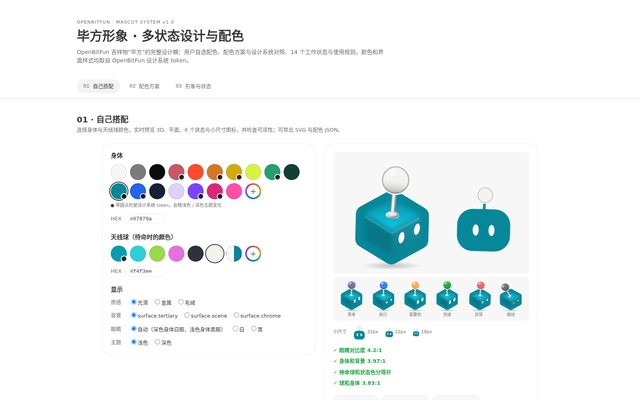
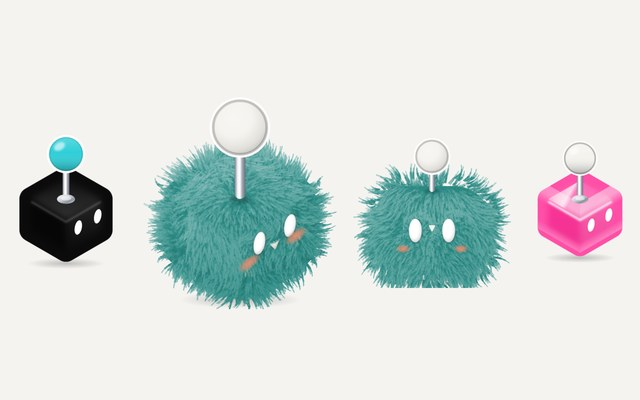
feat(bitfun): sync mascot page, refresh launcher card and thumbnail

diff --git a/design/bitfun-mascot/index.html b/design/bitfun-mascot/index.html
@@ -640,6 +640,7 @@ i.bl{display:inline-block;width:10px;height:10px;border-radius:50%;box-shadow:0 
       { q: [[33, 53.6], [60, 69.2], [60, 93.2], [33, 77.6]], n: 300, d: 1.4, base: .7 },
       { q: [[60, 69.2], [87, 53.6], [87, 77.6], [60, 93.2]], n: 300, d: 1.74, base: .64 }
     ];
+    if (!x.front) {
     // 脸：右侧面两只眼睛之间。脸上的毛短一些、顺着从脸中心向外梳，表情才看得清
     const EYE = [[69.5, 76.2], [84.5, 67.6]], FC = [77, 72];
     const faceK = (px, py) => { const d = Math.min(...EYE.map(e => Math.hypot(px - e[0], py - e[1]))); return Math.max(0, Math.min(1, (d - 3) / 9)); };
@@ -714,6 +715,29 @@ i.bl{display:inline-block;width:10px;height:10px;border-radius:50%;box-shadow:0 
       }
     }
     NOFLOW = false;
+    } else {
+      // 正面毛绒：圆角矩形（与平面视图同形），毛从头顶向四周、向下梳；两眼周围毛短、向外梳
+      const X0 = 26, X1 = 94, Y0 = 46, Y1 = 100, RR = 20, CX = 60, CY = 73;
+      const inside = (px, py) => { const qx = Math.min(Math.max(px, X0 + RR), X1 - RR), qy = Math.min(Math.max(py, Y0 + RR), Y1 - RR); return Math.hypot(px - qx, py - qy) <= RR; };
+      const fl = (px, py) => Math.max(0, Math.min(1, .62 + (.8 - (py - 46) * .006 - (px - 60) * .002 - .62) * .42 + (r() - .5) * .05));
+      const EYF = [[49.9, 73], [70.1, 73]];
+      const fk = (px, py) => { const d = Math.min(...EYF.map(e => Math.hypot((px - e[0]) * 1.4, py - e[1]))); return Math.max(0, Math.min(1, (d - 6) / 10)); };
+      const flowAng = (px, py) => { const a = Math.atan2(py - 34, (px - 60) * 1.3); return a; };
+      const UL = Math.max(L0, .65);
+      const fill = (m, fn) => { const gs = Math.ceil(Math.sqrt(m)); for (let i = 0; i < m; i++) { const px = X0 + ((i % gs) + r()) / gs * (X1 - X0), py = Y0 + (Math.floor(i / gs) + r()) / Math.ceil(m / gs) * (Y1 - Y0); if (inside(px, py)) fn(px, py); } };
+      fill(Math.round(1100 * UL), (px, py) => clump(px, py, flowAng(px, py) + (r() - .5) * .4, 3.5 + r() * 2.8, .7, fl(px, py) - .04, 4, 3));
+      fill(Math.round(1150 * L0), (px, py) => {
+        const k = fk(px, py); let ang = flowAng(px, py) + (r() - .5) * .3;
+        if (k < 1) { const e = EYF[px < 60 ? 0 : 1], oa = Math.atan2(py - e[1], px - e[0]); ang = ang * k + oa * (1 - k); }
+        clump(px, py, ang, (7.5 + r() * 4.5) * (.45 + .55 * k), .6 + r() * .5, fl(px, py) + (1 - k) * .05, grp(), 5);
+      });
+      // 外缘：沿轮廓一圈向外蓬的长毛
+      for (let i = 0, m = Math.round(520 * Math.max(L0, .6)); i < m; i++) {
+        const th = r() * Math.PI * 2, dx = Math.cos(th), dy = Math.sin(th); let t = 0; while (inside(CX + dx * (t + .5), CY + dy * (t + .5)) &amp;&amp; t < 60) t += .5;
+        const off = -3 + r() * 9, px = CX + dx * (t + off), py = CY + dy * (t + off);
+        clump(px, py, Math.atan2(dy * 1.15 + .25, dx) + (r() - .5) * .6, 5 + r() * 5.5, .5 + r() * .3, fl(px, py) - .03, off < 2 ? 4 : grp(), off < 2 ? 3 : 4);
+      }
+    }
     // 输出：每组一层 <g>，各自按不同节奏轻摆；同组内按 根 → 中 → 尖 的顺序叠
     let out = '';
     for (const B of buf.slice(0, 2)) for (let sg = 0; sg < SEG; sg++) for (let g = 0; g <= G; g++) {
@@ -743,6 +767,7 @@ i.bl{display:inline-block;width:10px;height:10px;border-radius:50%;box-shadow:0 
 
   function body(x) {
     const { P, u, plush } = x, sw = plush ? 20 : 18;
+    if (x.front) return `<rect x=&quot;26&quot; y=&quot;46&quot; width=&quot;68&quot; height=&quot;54&quot; rx=&quot;20&quot; fill=&quot;${P.side}&quot;/>${down(x)}`;
     if (x.flat) {
       const e = edgeOf(P.side);
       let f = `<rect x=&quot;26&quot; y=&quot;46&quot; width=&quot;68&quot; height=&quot;54&quot; rx=&quot;20&quot; fill=&quot;${P.side}&quot;${e ? ` stroke=&quot;${e}&quot; stroke-width=&quot;${x.tiny ? 2.4 : 1.4}&quot;` : ''}/>`;
@@ -830,9 +855,9 @@ ${plush ? '' : `<path d=&quot;${LEFT}&quot; fill=&quot;url(#lf${u})&quot; filter
     if (fx.includes('orbit')) over += `<g><circle cx=&quot;60&quot; cy=&quot;29&quot; r=&quot;17&quot; fill=&quot;none&quot; stroke=&quot;${color}&quot; stroke-opacity=&quot;.28&quot; stroke-width=&quot;1&quot; stroke-dasharray=&quot;1.5 3&quot;/><circle cx=&quot;77&quot; cy=&quot;29&quot; r=&quot;2.6&quot; fill=&quot;${color}&quot;><animateTransform attributeName=&quot;transform&quot; type=&quot;rotate&quot; from=&quot;0 60 29&quot; to=&quot;360 60 29&quot; dur=&quot;1.8s&quot; repeatCount=&quot;indefinite&quot;/></circle></g>`;
     if (fx.includes('smoke')) over += `<circle class=&quot;puff&quot; cx=&quot;67&quot; cy=&quot;14&quot; r=&quot;3.2&quot; fill=&quot;#B9BEC7&quot;/><circle class=&quot;puff p2&quot; cx=&quot;71&quot; cy=&quot;12&quot; r=&quot;2.4&quot; fill=&quot;#B9BEC7&quot;/>`;
     const be = edgeOf(color), bs = be ? ` stroke=&quot;${be}&quot; stroke-width=&quot;${x.tiny ? 2 : 1.1}&quot;` : '';
-    const ball = x.tiny ? `<circle cx=&quot;60&quot; cy=&quot;27&quot; r=&quot;12.5&quot; fill=&quot;${color}&quot;${bs}/>` : x.flat ? `<circle cx=&quot;60&quot; cy=&quot;28&quot; r=&quot;9.6&quot; fill=&quot;${color}&quot;${bs}/>` : `<circle cx=&quot;60&quot; cy=&quot;29&quot; r=&quot;11.5&quot; fill=&quot;${color}&quot;${bs}/>${plush ? `<circle cx=&quot;60&quot; cy=&quot;29&quot; r=&quot;11.5&quot; fill=&quot;url(#bm${u})&quot;/>` : `<circle cx=&quot;60&quot; cy=&quot;29&quot; r=&quot;11.5&quot; fill=&quot;url(#bs${u})&quot;/>`}${plush ? '' : `<ellipse cx=&quot;55.6&quot; cy=&quot;23.8&quot; rx=&quot;4&quot; ry=&quot;2.6&quot; transform=&quot;rotate(-30 55.6 23.8)&quot; fill=&quot;#fff&quot; opacity=&quot;.6&quot; filter=&quot;url(#hb${u})&quot;/><circle cx=&quot;60&quot; cy=&quot;29&quot; r=&quot;11.1&quot; fill=&quot;none&quot; stroke=&quot;#000&quot; stroke-opacity=&quot;.1&quot; stroke-width=&quot;.8&quot;/>`}`;
+    const ball = x.tiny ? `<circle cx=&quot;60&quot; cy=&quot;27&quot; r=&quot;12.5&quot; fill=&quot;${color}&quot;${bs}/>` : x.flat ? `<circle cx=&quot;60&quot; cy=&quot;28&quot; r=&quot;9.6&quot; fill=&quot;${color}&quot;${bs}/>${x.front ? `<circle cx=&quot;60&quot; cy=&quot;28&quot; r=&quot;9.6&quot; fill=&quot;url(#bm${u})&quot;/>` : ''}` : `<circle cx=&quot;60&quot; cy=&quot;29&quot; r=&quot;11.5&quot; fill=&quot;${color}&quot;${bs}/>${plush ? `<circle cx=&quot;60&quot; cy=&quot;29&quot; r=&quot;11.5&quot; fill=&quot;url(#bm${u})&quot;/>` : `<circle cx=&quot;60&quot; cy=&quot;29&quot; r=&quot;11.5&quot; fill=&quot;url(#bs${u})&quot;/>`}${plush ? '' : `<ellipse cx=&quot;55.6&quot; cy=&quot;23.8&quot; rx=&quot;4&quot; ry=&quot;2.6&quot; transform=&quot;rotate(-30 55.6 23.8)&quot; fill=&quot;#fff&quot; opacity=&quot;.6&quot; filter=&quot;url(#hb${u})&quot;/><circle cx=&quot;60&quot; cy=&quot;29&quot; r=&quot;11.1&quot; fill=&quot;none&quot; stroke=&quot;#000&quot; stroke-opacity=&quot;.1&quot; stroke-width=&quot;.8&quot;/>`}`;
     return `<g class=&quot;${cls}&quot;>
-      ${x.flat ? `<rect x=&quot;58.3&quot; y=&quot;36&quot; width=&quot;3.4&quot; height=&quot;10.2&quot; fill=&quot;${edgeOf(P.side) || P.side}&quot;/>`
+      ${x.front ? `<ellipse cx=&quot;60&quot; cy=&quot;49&quot; rx=&quot;4.4&quot; ry=&quot;1.8&quot; fill=&quot;#000&quot; opacity=&quot;.2&quot; filter=&quot;url(#hb${u})&quot;/><rect x=&quot;58.2&quot; y=&quot;35&quot; width=&quot;3.6&quot; height=&quot;14.5&quot; rx=&quot;1.8&quot; fill=&quot;url(#cr${u})&quot;/>` : x.flat ? `<rect x=&quot;58.3&quot; y=&quot;36&quot; width=&quot;3.4&quot; height=&quot;10.2&quot; fill=&quot;${edgeOf(P.side) || P.side}&quot;/>`
         : `${plush ? `<ellipse cx=&quot;60&quot; cy=&quot;54.4&quot; rx=&quot;5.2&quot; ry=&quot;2.4&quot; fill=&quot;#000&quot; opacity=&quot;.22&quot; filter=&quot;url(#hb${u})&quot;/><rect x=&quot;57.4&quot; y=&quot;30&quot; width=&quot;5.2&quot; height=&quot;24&quot; rx=&quot;2.6&quot; fill=&quot;url(#cr${u})&quot;/>` : `<rect x=&quot;57.4&quot; y=&quot;30&quot; width=&quot;5.2&quot; height=&quot;23.5&quot; rx=&quot;2.6&quot; fill=&quot;url(#cr${u})&quot;/><ellipse cx=&quot;60&quot; cy=&quot;53.8&quot; rx=&quot;7&quot; ry=&quot;3.6&quot; fill=&quot;url(#cc${u})&quot;/><ellipse cx=&quot;60&quot; cy=&quot;53.1&quot; rx=&quot;4&quot; ry=&quot;1.7&quot; fill=&quot;#fff&quot; opacity=&quot;.55&quot;/>`}`}
       <g transform=&quot;${x.flat ? '' : 'translate(0 -10) translate(60 29) scale(1.14) translate(-60 -29)'}&quot;>
       ${under}
@@ -1025,13 +1050,14 @@ ${plush ? '' : `<path d=&quot;${LEFT}&quot; fill=&quot;url(#lf${u})&quot; filter
     const P = typeof opt.palette === 'object' ? opt.palette : PALETTES[opt.palette || 'obsidian'];
     const x = { P, u: 'b' + (++UID), plush: opt.finish === 'plush', metal: opt.finish === 'metal', cute: opt.face === 'cute', lod: opt.lod || 1, flat: opt.view === 'flat' || !!opt.tiny, tiny: !!opt.tiny, mouthPick: opt.mouth, blushPick: opt.blush === 'none' ? null : opt.blush };
     if (opt.blush === 'none') x.blushPick = '';
-    if (x.flat) { x.plush = false; x.metal = false; } // 平面只有一种：纯平、简化
+    x.front = opt.view === 'front' &amp;&amp; x.plush; if (opt.view === 'front') x.flat = true; // 正面毛绒：平面的正面构图 + 毛绒
+    if (x.flat &amp;&amp; !x.front) { x.plush = false; x.metal = false; } // 平面只有一种：纯平、简化
     const color = statusColor(st.cat, opt.palette);
     const compact = !!opt.compact || !!opt.tiny, ac = !!opt.accent &amp;&amp; !x.tiny;
     const list = parts(id, x, color, compact || ac).filter(Boolean).join('') + (x.plush &amp;&amp; x.furOver ? x.furOver : (x.tiny ? '' : bifangBlush(x))) + (x.mouthPick === 'beak' ? beakOf(x) : x.mouthPick &amp;&amp; x.mouthPick !== 'state' &amp;&amp; x.mouthPick !== 'none' &amp;&amp; !x.tiny ? mouth(x, x.mouthPick, true) : '');
     const wrap = st.wrap === 'hop' &amp;&amp; (compact || ac) ? 'f' : st.wrap;
     const vb = x.tiny ? '20 13 80 90' : ac ? '34 6 122 120' : compact ? '9 1 102 107' : '0 0 160 136';
-    const shadow = x.flat ? '' : false ? `<ellipse cx=&quot;60&quot; cy=&quot;104&quot; rx=&quot;27&quot; ry=&quot;2.6&quot; fill=&quot;#000&quot; opacity=&quot;.07&quot;/>` : `<ellipse cx=&quot;60&quot; cy=&quot;103.5&quot; rx=&quot;30&quot; ry=&quot;4.2&quot; fill=&quot;url(#sh${x.u})&quot;/>`;
+    const shadow = x.flat &amp;&amp; !x.front ? '' : false ? `<ellipse cx=&quot;60&quot; cy=&quot;104&quot; rx=&quot;27&quot; ry=&quot;2.6&quot; fill=&quot;#000&quot; opacity=&quot;.07&quot;/>` : `<ellipse cx=&quot;60&quot; cy=&quot;103.5&quot; rx=&quot;30&quot; ry=&quot;4.2&quot; fill=&quot;url(#sh${x.u})&quot;/>`;
     const inner = compact &amp;&amp; !ac ? `${shadow}<g class=&quot;${wrap}&quot;>${list}</g>` : `<g transform=&quot;translate(20 12)&quot;>${shadow}<g class=&quot;${wrap}&quot;>${list}</g>${ac ? accent(id, color) : ''}</g>`;
     const style = opt.noStyle ? '' : `<style>${STYLE}</style>`;
     return `<svg class=&quot;bf&quot; xmlns=&quot;http://www.w3.org/2000/svg&quot; viewBox=&quot;${vb}&quot; role=&quot;img&quot; aria-label=&quot;毕方 · ${st.name}&quot;>${style}${defs(x)}${inner}</svg>`;
@@ -1117,7 +1143,7 @@ ${plush ? '' : `<path d=&quot;${LEFT}&quot; fill=&quot;url(#lf${u})&quot; filter
     document.getElementById('balls').innerHTML = BALLS.map(o => sw(o,'ball')).join('');
     const P = palette();
     syncCustom('body', P.side, S.body._i === -1); syncCustom('ball', P.accent, S.ball._i === -1);
-    document.getElementById('big').innerHTML = render('idle', opt(P,{compact:1})) + render('idle', opt(P,{compact:1, view:'flat'}));
+    document.getElementById('big').innerHTML = render('idle', opt(P,{compact:1})) + render('idle', opt(P,{compact:1, view: S.finish === 'plush' ? 'front' : 'flat'}));
     document.getElementById('states').innerHTML = [['thinking','思考'],['coding','执行'],['awaiting','需要你'],['done','完成'],['error','异常'],['sleeping','离线']]
       .map(([id,n]) => `<div>${render(id, opt(P,{compact:1}))}${n}</div>`).join('');
     document.getElementById('tiny').innerHTML = '小尺寸 ' + [32,22,18].map(px => `<span><span style=&quot;display:block;width:${px}px;height:${px}px&quot;>${render('idle', opt(P,{tiny:true}))}</span>${px}px</span>`).join('');
@@ -1150,7 +1176,7 @@ ${plush ? '' : `<path d=&quot;${LEFT}&quot; fill=&quot;url(#lf${u})&quot; filter
   const save = (name, text, type) => { const a = document.createElement('a'); a.href = URL.createObjectURL(new Blob([text], {type})); a.download = name; a.click(); URL.revokeObjectURL(a.href); };
   const fileName = v => `bitfun-${v}-${window.__P.side.slice(1)}-${window.__P.accent.slice(1)}.svg`;
   document.getElementById('dl3d').onclick = () => save(fileName('3d'), render('idle', Object.assign({ palette: window.__P, finish: S.finish }, pick())), 'image/svg+xml');
-  document.getElementById('dlFlat').onclick = () => save(fileName('flat'), render('idle', Object.assign({ palette: window.__P, view:'flat' }, pick())), 'image/svg+xml');
+  document.getElementById('dlFlat').onclick = () => save(fileName('flat'), render('idle', Object.assign({ palette: window.__P, view: S.finish === 'plush' ? 'front' : 'flat', finish: S.finish }, pick())), 'image/svg+xml');
   document.getElementById('copy').onclick = async e => {
     const P = window.__P, json = JSON.stringify({ body: S.body.tok || P.side, ball: S.ball.tok || P.accent, eye: P.eye, finish: S.finish, scheme: S.scheme }, null, 2);
     try { await navigator.clipboard.writeText(json); e.target.textContent = '已复制'; } catch { save('bitfun-colors.json', json, 'application/json'); e.target.textContent = '已下载 JSON'; }
@@ -1395,7 +1421,8 @@ button.sel{border-color:var(--ink)}
 .rules b{display:block;color:var(--ink);font-size:15px;margin-bottom:4px}
 .live{display:grid;grid-template-columns:minmax(0,1.4fr) minmax(240px,1fr);gap:var(--openbitfun-space-6,24px);align-items:center;background:var(--openbitfun-color-surface-subtle,#f6f6f4);border-radius:24px;padding:24px}
 .live-stage{position:relative;border-radius:20px;background:radial-gradient(70% 60% at 50% 35%,#fff,transparent 75%),var(--openbitfun-color-surface-default,#fff);aspect-ratio:1/1;max-height:520px;display:flex;align-items:center;justify-content:center;overflow:hidden;cursor:grab}
-.live-fig{position:relative;width:78%;transform-origin:50% 88%;will-change:transform}.live-fig svg{display:block;width:100%;overflow:visible}
+.live-turn{width:78%;transition:transform .22s ease-in}.live-turn.out{transform:perspective(600px) rotateY(88deg) scale(.96)}
+.live-fig{position:relative;width:100%;transform-origin:50% 88%;will-change:transform}.live-fig svg{display:block;width:100%;overflow:visible}
 .live-hint{position:absolute;left:0;right:0;bottom:14px;text-align:center;font-size:12px;color:var(--sub)}
 .live-ctrl{display:flex;flex-direction:column;gap:16px}.live-row{display:flex;align-items:center;gap:12px;flex-wrap:wrap}.live-row .lab{font-size:13px;color:var(--sub);width:36px}
 .live-sw{display:flex;gap:8px;flex-wrap:wrap}.live-sw button{width:26px;height:26px;border-radius:50%;border:1px solid rgba(0,0,0,.12);cursor:pointer;padding:0}.live-sw button[aria-pressed=true]{outline:2px solid var(--ink);outline-offset:2px}
@@ -1490,8 +1517,9 @@ button.sel{border-color:var(--ink)}
     <h2>毛绒动态版</h2>
     <p class=&quot;sec-desc&quot;>划过撸毛，点击抖一抖。</p>
     <div class=&quot;live&quot; id=&quot;live&quot;>
-      <div class=&quot;live-stage&quot;><div class=&quot;live-fig&quot;></div></div>
+      <div class=&quot;live-stage&quot;><div class=&quot;live-turn&quot;><div class=&quot;live-fig&quot;></div></div></div>
       <div class=&quot;live-ctrl&quot;>
+        <div class=&quot;live-row&quot;><span class=&quot;lab&quot;>角度</span><span class=&quot;seg2&quot; id=&quot;liveView&quot;><button data-v=&quot;iso&quot; aria-pressed=&quot;true&quot;>侧面</button><button data-v=&quot;front&quot;>正面</button></span></div>
         <div class=&quot;live-row&quot;><span class=&quot;lab&quot;>状态</span><span class=&quot;seg2&quot; id=&quot;liveState&quot;></span></div>
         <div class=&quot;live-row&quot;><span class=&quot;lab&quot;>颜色</span><span class=&quot;live-sw&quot; id=&quot;livePal&quot;></span></div>
         <div class=&quot;live-row&quot;><span class=&quot;lab&quot;>风力</span><span class=&quot;seg2&quot; id=&quot;liveWind&quot;><button data-v=&quot;0&quot;>无风</button><button data-v=&quot;1&quot; aria-pressed=&quot;true&quot;>微风</button><button data-v=&quot;2.2&quot;>大风</button></span></div>
@@ -1877,6 +1905,7 @@ button.sel{border-color:var(--ink)}
       { q: [[33, 53.6], [60, 69.2], [60, 93.2], [33, 77.6]], n: 300, d: 1.4, base: .7 },
       { q: [[60, 69.2], [87, 53.6], [87, 77.6], [60, 93.2]], n: 300, d: 1.74, base: .64 }
     ];
+    if (!x.front) {
     // 脸：右侧面两只眼睛之间。脸上的毛短一些、顺着从脸中心向外梳，表情才看得清
     const EYE = [[69.5, 76.2], [84.5, 67.6]], FC = [77, 72];
     const faceK = (px, py) => { const d = Math.min(...EYE.map(e => Math.hypot(px - e[0], py - e[1]))); return Math.max(0, Math.min(1, (d - 3) / 9)); };
@@ -1951,6 +1980,29 @@ button.sel{border-color:var(--ink)}
       }
     }
     NOFLOW = false;
+    } else {
+      // 正面毛绒：圆角矩形（与平面视图同形），毛从头顶向四周、向下梳；两眼周围毛短、向外梳
+      const X0 = 26, X1 = 94, Y0 = 46, Y1 = 100, RR = 20, CX = 60, CY = 73;
+      const inside = (px, py) => { const qx = Math.min(Math.max(px, X0 + RR), X1 - RR), qy = Math.min(Math.max(py, Y0 + RR), Y1 - RR); return Math.hypot(px - qx, py - qy) <= RR; };
+      const fl = (px, py) => Math.max(0, Math.min(1, .62 + (.8 - (py - 46) * .006 - (px - 60) * .002 - .62) * .42 + (r() - .5) * .05));
+      const EYF = [[49.9, 73], [70.1, 73]];
+      const fk = (px, py) => { const d = Math.min(...EYF.map(e => Math.hypot((px - e[0]) * 1.4, py - e[1]))); return Math.max(0, Math.min(1, (d - 6) / 10)); };
+      const flowAng = (px, py) => { const a = Math.atan2(py - 34, (px - 60) * 1.3); return a; };
+      const UL = Math.max(L0, .65);
+      const fill = (m, fn) => { const gs = Math.ceil(Math.sqrt(m)); for (let i = 0; i < m; i++) { const px = X0 + ((i % gs) + r()) / gs * (X1 - X0), py = Y0 + (Math.floor(i / gs) + r()) / Math.ceil(m / gs) * (Y1 - Y0); if (inside(px, py)) fn(px, py); } };
+      fill(Math.round(1100 * UL), (px, py) => clump(px, py, flowAng(px, py) + (r() - .5) * .4, 3.5 + r() * 2.8, .7, fl(px, py) - .04, 4, 3));
+      fill(Math.round(1150 * L0), (px, py) => {
+        const k = fk(px, py); let ang = flowAng(px, py) + (r() - .5) * .3;
+        if (k < 1) { const e = EYF[px < 60 ? 0 : 1], oa = Math.atan2(py - e[1], px - e[0]); ang = ang * k + oa * (1 - k); }
+        clump(px, py, ang, (7.5 + r() * 4.5) * (.45 + .55 * k), .6 + r() * .5, fl(px, py) + (1 - k) * .05, grp(), 5);
+      });
+      // 外缘：沿轮廓一圈向外蓬的长毛
+      for (let i = 0, m = Math.round(520 * Math.max(L0, .6)); i < m; i++) {
+        const th = r() * Math.PI * 2, dx = Math.cos(th), dy = Math.sin(th); let t = 0; while (inside(CX + dx * (t + .5), CY + dy * (t + .5)) &amp;&amp; t < 60) t += .5;
+        const off = -3 + r() * 9, px = CX + dx * (t + off), py = CY + dy * (t + off);
+        clump(px, py, Math.atan2(dy * 1.15 + .25, dx) + (r() - .5) * .6, 5 + r() * 5.5, .5 + r() * .3, fl(px, py) - .03, off < 2 ? 4 : grp(), off < 2 ? 3 : 4);
+      }
+    }
     // 输出：每组一层 <g>，各自按不同节奏轻摆；同组内按 根 → 中 → 尖 的顺序叠
     let out = '';
     for (const B of buf.slice(0, 2)) for (let sg = 0; sg < SEG; sg++) for (let g = 0; g <= G; g++) {
@@ -1980,6 +2032,7 @@ button.sel{border-color:var(--ink)}
 
   function body(x) {
     const { P, u, plush } = x, sw = plush ? 20 : 18;
+    if (x.front) return `<rect x=&quot;26&quot; y=&quot;46&quot; width=&quot;68&quot; height=&quot;54&quot; rx=&quot;20&quot; fill=&quot;${P.side}&quot;/>${down(x)}`;
     if (x.flat) {
       const e = edgeOf(P.side);
       let f = `<rect x=&quot;26&quot; y=&quot;46&quot; width=&quot;68&quot; height=&quot;54&quot; rx=&quot;20&quot; fill=&quot;${P.side}&quot;${e ? ` stroke=&quot;${e}&quot; stroke-width=&quot;${x.tiny ? 2.4 : 1.4}&quot;` : ''}/>`;
@@ -2067,9 +2120,9 @@ ${plush ? '' : `<path d=&quot;${LEFT}&quot; fill=&quot;url(#lf${u})&quot; filter
     if (fx.includes('orbit')) over += `<g><circle cx=&quot;60&quot; cy=&quot;29&quot; r=&quot;17&quot; fill=&quot;none&quot; stroke=&quot;${color}&quot; stroke-opacity=&quot;.28&quot; stroke-width=&quot;1&quot; stroke-dasharray=&quot;1.5 3&quot;/><circle cx=&quot;77&quot; cy=&quot;29&quot; r=&quot;2.6&quot; fill=&quot;${color}&quot;><animateTransform attributeName=&quot;transform&quot; type=&quot;rotate&quot; from=&quot;0 60 29&quot; to=&quot;360 60 29&quot; dur=&quot;1.8s&quot; repeatCount=&quot;indefinite&quot;/></circle></g>`;
     if (fx.includes('smoke')) over += `<circle class=&quot;puff&quot; cx=&quot;67&quot; cy=&quot;14&quot; r=&quot;3.2&quot; fill=&quot;#B9BEC7&quot;/><circle class=&quot;puff p2&quot; cx=&quot;71&quot; cy=&quot;12&quot; r=&quot;2.4&quot; fill=&quot;#B9BEC7&quot;/>`;
     const be = edgeOf(color), bs = be ? ` stroke=&quot;${be}&quot; stroke-width=&quot;${x.tiny ? 2 : 1.1}&quot;` : '';
-    const ball = x.tiny ? `<circle cx=&quot;60&quot; cy=&quot;27&quot; r=&quot;12.5&quot; fill=&quot;${color}&quot;${bs}/>` : x.flat ? `<circle cx=&quot;60&quot; cy=&quot;28&quot; r=&quot;9.6&quot; fill=&quot;${color}&quot;${bs}/>` : `<circle cx=&quot;60&quot; cy=&quot;29&quot; r=&quot;11.5&quot; fill=&quot;${color}&quot;${bs}/>${plush ? `<circle cx=&quot;60&quot; cy=&quot;29&quot; r=&quot;11.5&quot; fill=&quot;url(#bm${u})&quot;/>` : `<circle cx=&quot;60&quot; cy=&quot;29&quot; r=&quot;11.5&quot; fill=&quot;url(#bs${u})&quot;/>`}${plush ? '' : `<ellipse cx=&quot;55.6&quot; cy=&quot;23.8&quot; rx=&quot;4&quot; ry=&quot;2.6&quot; transform=&quot;rotate(-30 55.6 23.8)&quot; fill=&quot;#fff&quot; opacity=&quot;.6&quot; filter=&quot;url(#hb${u})&quot;/><circle cx=&quot;60&quot; cy=&quot;29&quot; r=&quot;11.1&quot; fill=&quot;none&quot; stroke=&quot;#000&quot; stroke-opacity=&quot;.1&quot; stroke-width=&quot;.8&quot;/>`}`;
+    const ball = x.tiny ? `<circle cx=&quot;60&quot; cy=&quot;27&quot; r=&quot;12.5&quot; fill=&quot;${color}&quot;${bs}/>` : x.flat ? `<circle cx=&quot;60&quot; cy=&quot;28&quot; r=&quot;9.6&quot; fill=&quot;${color}&quot;${bs}/>${x.front ? `<circle cx=&quot;60&quot; cy=&quot;28&quot; r=&quot;9.6&quot; fill=&quot;url(#bm${u})&quot;/>` : ''}` : `<circle cx=&quot;60&quot; cy=&quot;29&quot; r=&quot;11.5&quot; fill=&quot;${color}&quot;${bs}/>${plush ? `<circle cx=&quot;60&quot; cy=&quot;29&quot; r=&quot;11.5&quot; fill=&quot;url(#bm${u})&quot;/>` : `<circle cx=&quot;60&quot; cy=&quot;29&quot; r=&quot;11.5&quot; fill=&quot;url(#bs${u})&quot;/>`}${plush ? '' : `<ellipse cx=&quot;55.6&quot; cy=&quot;23.8&quot; rx=&quot;4&quot; ry=&quot;2.6&quot; transform=&quot;rotate(-30 55.6 23.8)&quot; fill=&quot;#fff&quot; opacity=&quot;.6&quot; filter=&quot;url(#hb${u})&quot;/><circle cx=&quot;60&quot; cy=&quot;29&quot; r=&quot;11.1&quot; fill=&quot;none&quot; stroke=&quot;#000&quot; stroke-opacity=&quot;.1&quot; stroke-width=&quot;.8&quot;/>`}`;
     return `<g class=&quot;${cls}&quot;>
-      ${x.flat ? `<rect x=&quot;58.3&quot; y=&quot;36&quot; width=&quot;3.4&quot; height=&quot;10.2&quot; fill=&quot;${edgeOf(P.side) || P.side}&quot;/>`
+      ${x.front ? `<ellipse cx=&quot;60&quot; cy=&quot;49&quot; rx=&quot;4.4&quot; ry=&quot;1.8&quot; fill=&quot;#000&quot; opacity=&quot;.2&quot; filter=&quot;url(#hb${u})&quot;/><rect x=&quot;58.2&quot; y=&quot;35&quot; width=&quot;3.6&quot; height=&quot;14.5&quot; rx=&quot;1.8&quot; fill=&quot;url(#cr${u})&quot;/>` : x.flat ? `<rect x=&quot;58.3&quot; y=&quot;36&quot; width=&quot;3.4&quot; height=&quot;10.2&quot; fill=&quot;${edgeOf(P.side) || P.side}&quot;/>`
         : `${plush ? `<ellipse cx=&quot;60&quot; cy=&quot;54.4&quot; rx=&quot;5.2&quot; ry=&quot;2.4&quot; fill=&quot;#000&quot; opacity=&quot;.22&quot; filter=&quot;url(#hb${u})&quot;/><rect x=&quot;57.4&quot; y=&quot;30&quot; width=&quot;5.2&quot; height=&quot;24&quot; rx=&quot;2.6&quot; fill=&quot;url(#cr${u})&quot;/>` : `<rect x=&quot;57.4&quot; y=&quot;30&quot; width=&quot;5.2&quot; height=&quot;23.5&quot; rx=&quot;2.6&quot; fill=&quot;url(#cr${u})&quot;/><ellipse cx=&quot;60&quot; cy=&quot;53.8&quot; rx=&quot;7&quot; ry=&quot;3.6&quot; fill=&quot;url(#cc${u})&quot;/><ellipse cx=&quot;60&quot; cy=&quot;53.1&quot; rx=&quot;4&quot; ry=&quot;1.7&quot; fill=&quot;#fff&quot; opacity=&quot;.55&quot;/>`}`}
       <g transform=&quot;${x.flat ? '' : 'translate(0 -10) translate(60 29) scale(1.14) translate(-60 -29)'}&quot;>
       ${under}
@@ -2262,13 +2315,14 @@ ${plush ? '' : `<path d=&quot;${LEFT}&quot; fill=&quot;url(#lf${u})&quot; filter
     const P = typeof opt.palette === 'object' ? opt.palette : PALETTES[opt.palette || 'obsidian'];
     const x = { P, u: 'b' + (++UID), plush: opt.finish === 'plush', metal: opt.finish === 'metal', cute: opt.face === 'cute', lod: opt.lod || 1, flat: opt.view === 'flat' || !!opt.tiny, tiny: !!opt.tiny, mouthPick: opt.mouth, blushPick: opt.blush === 'none' ? null : opt.blush };
     if (opt.blush === 'none') x.blushPick = '';
-    if (x.flat) { x.plush = false; x.metal = false; } // 平面只有一种：纯平、简化
+    x.front = opt.view === 'front' &amp;&amp; x.plush; if (opt.view === 'front') x.flat = true; // 正面毛绒：平面的正面构图 + 毛绒
+    if (x.flat &amp;&amp; !x.front) { x.plush = false; x.metal = false; } // 平面只有一种：纯平、简化
     const color = statusColor(st.cat, opt.palette);
     const compact = !!opt.compact || !!opt.tiny, ac = !!opt.accent &amp;&amp; !x.tiny;
     const list = parts(id, x, color, compact || ac).filter(Boolean).join('') + (x.plush &amp;&amp; x.furOver ? x.furOver : (x.tiny ? '' : bifangBlush(x))) + (x.mouthPick === 'beak' ? beakOf(x) : x.mouthPick &amp;&amp; x.mouthPick !== 'state' &amp;&amp; x.mouthPick !== 'none' &amp;&amp; !x.tiny ? mouth(x, x.mouthPick, true) : '');
     const wrap = st.wrap === 'hop' &amp;&amp; (compact || ac) ? 'f' : st.wrap;
     const vb = x.tiny ? '20 13 80 90' : ac ? '34 6 122 120' : compact ? '9 1 102 107' : '0 0 160 136';
-    const shadow = x.flat ? '' : false ? `<ellipse cx=&quot;60&quot; cy=&quot;104&quot; rx=&quot;27&quot; ry=&quot;2.6&quot; fill=&quot;#000&quot; opacity=&quot;.07&quot;/>` : `<ellipse cx=&quot;60&quot; cy=&quot;103.5&quot; rx=&quot;30&quot; ry=&quot;4.2&quot; fill=&quot;url(#sh${x.u})&quot;/>`;
+    const shadow = x.flat &amp;&amp; !x.front ? '' : false ? `<ellipse cx=&quot;60&quot; cy=&quot;104&quot; rx=&quot;27&quot; ry=&quot;2.6&quot; fill=&quot;#000&quot; opacity=&quot;.07&quot;/>` : `<ellipse cx=&quot;60&quot; cy=&quot;103.5&quot; rx=&quot;30&quot; ry=&quot;4.2&quot; fill=&quot;url(#sh${x.u})&quot;/>`;
     const inner = compact &amp;&amp; !ac ? `${shadow}<g class=&quot;${wrap}&quot;>${list}</g>` : `<g transform=&quot;translate(20 12)&quot;>${shadow}<g class=&quot;${wrap}&quot;>${list}</g>${ac ? accent(id, color) : ''}</g>`;
     const style = opt.noStyle ? '' : `<style>${STYLE}</style>`;
     return `<svg class=&quot;bf&quot; xmlns=&quot;http://www.w3.org/2000/svg&quot; viewBox=&quot;${vb}&quot; role=&quot;img&quot; aria-label=&quot;毕方 · ${st.name}&quot;>${style}${defs(x)}${inner}</svg>`;
@@ -2389,7 +2443,7 @@ ${plush ? '' : `<path d=&quot;${LEFT}&quot; fill=&quot;url(#lf${u})&quot; filter
   const fig = root.querySelector('.live-fig'), stage = root.querySelector('.live-stage');
   const STATES = [['idle','待命'],['thinking','思考'],['done','完成'],['sleeping','休眠']];
   const PALS = ['bifang','black','white','lavender','hotpink','cyan','lime'];
-  const L = {sid:'idle', pal:'bifang', wind:1};
+  const L = {sid:'idle', pal:'bifang', wind:1, view:'iso'};
   const reduce = matchMedia('(prefers-reduced-motion: reduce)').matches;
   let groups = [], body = {a:0, v:0, s:0, sv:0}, shakeT = -1, ptr = null, visible = true;
   const seg = (el, items, key, cb) => { el.innerHTML = items.map(([v,t]) => `<button data-v=&quot;${v}&quot; aria-pressed=&quot;${L[key]===v}&quot;>${t}</button>`).join(''); el.onclick = e => { const b = e.target.closest('button'); if (!b) return; L[key] = b.dataset.v; [...el.children].forEach(x => x.setAttribute('aria-pressed', x === b)); cb(); }; };
@@ -2397,6 +2451,11 @@ ${plush ? '' : `<path d=&quot;${LEFT}&quot; fill=&quot;url(#lf${u})&quot; filter
   const pe = document.getElementById('livePal');
   pe.innerHTML = PALS.map(k => `<button data-v=&quot;${k}&quot; title=&quot;${BF.PALETTES[k].name}&quot; style=&quot;background:${BF.PALETTES[k].side}&quot; aria-pressed=&quot;${k===L.pal}&quot;></button>`).join('');
   pe.onclick = e => { const b = e.target.closest('button'); if (!b) return; L.pal = b.dataset.v; [...pe.children].forEach(x => x.setAttribute('aria-pressed', x === b)); mount(); };
+  // 转身：先转到侧边（看不见），换成另一个角度，再转回来
+  const turn = root.querySelector('.live-turn'), ve = document.getElementById('liveView');
+  ve.onclick = e => { const b = e.target.closest('button'); if (!b || b.dataset.v === L.view) return; [...ve.children].forEach(x => x.setAttribute('aria-pressed', x === b));
+    turn.classList.add('out'); setTimeout(() => { L.view = b.dataset.v; mount(); turn.style.transition = 'none'; turn.style.transform = 'perspective(600px) rotateY(-88deg) scale(.96)'; turn.classList.remove('out');
+      requestAnimationFrame(() => requestAnimationFrame(() => { turn.style.transition = 'transform .26s ease-out'; turn.style.transform = ''; setTimeout(() => turn.style.transition = '', 300); })); }, 220); };
   const we = document.getElementById('liveWind');
   we.onclick = e => { const b = e.target.closest('button'); if (!b) return; L.wind = +b.dataset.v; [...we.children].forEach(x => x.setAttribute('aria-pressed', x === b)); };
   // 性能：整只毛绒是一个很大的 SVG，每帧改 transform 会让浏览器把上千条路径重画一遍。
@@ -2421,9 +2480,9 @@ ${plush ? '' : `<path d=&quot;${LEFT}&quot; fill=&quot;url(#lf${u})&quot; filter
   }
   function mount(){
     const tmp = document.createElement('div');
-    tmp.innerHTML = BF.render(L.sid, {palette:L.pal, finish:'plush', compact:true, noStyle:true, lod:.85});
+    tmp.innerHTML = BF.render(L.sid, {palette:L.pal, finish:'plush', view:L.view, compact:true, noStyle:true, lod:.85});
     const svg = tmp.querySelector('svg'), vb = svg.viewBox.baseVal;
-    const origin = `${((60 - vb.x) / vb.width * 100).toFixed(2)}% ${((66 - vb.y) / vb.height * 100).toFixed(2)}%`;
+    const oy = L.view === 'front' ? 73 : 66, origin = `${((60 - vb.x) / vb.width * 100).toFixed(2)}% ${((oy - vb.y) / vb.height * 100).toFixed(2)}%`;
     fig.innerHTML = '';
     const layers = split(svg);
     layers.forEach((l, i) => { l.style.position = i ? 'absolute' : 'relative'; l.style.left = l.style.top = '0'; l.style.transformOrigin = origin; if (l._g !== undefined) l.style.willChange = 'transform'; fig.appendChild(l); });
@@ -2919,6 +2978,7 @@ a{color:var(--openbitfun-color-link-default)}
       { q: [[33, 53.6], [60, 69.2], [60, 93.2], [33, 77.6]], n: 300, d: 1.4, base: .7 },
       { q: [[60, 69.2], [87, 53.6], [87, 77.6], [60, 93.2]], n: 300, d: 1.74, base: .64 }
     ];
+    if (!x.front) {
     // 脸：右侧面两只眼睛之间。脸上的毛短一些、顺着从脸中心向外梳，表情才看得清
     const EYE = [[69.5, 76.2], [84.5, 67.6]], FC = [77, 72];
     const faceK = (px, py) => { const d = Math.min(...EYE.map(e => Math.hypot(px - e[0], py - e[1]))); return Math.max(0, Math.min(1, (d - 3) / 9)); };
@@ -2993,6 +3053,29 @@ a{color:var(--openbitfun-color-link-default)}
       }
     }
     NOFLOW = false;
+    } else {
+      // 正面毛绒：圆角矩形（与平面视图同形），毛从头顶向四周、向下梳；两眼周围毛短、向外梳
+      const X0 = 26, X1 = 94, Y0 = 46, Y1 = 100, RR = 20, CX = 60, CY = 73;
+      const inside = (px, py) => { const qx = Math.min(Math.max(px, X0 + RR), X1 - RR), qy = Math.min(Math.max(py, Y0 + RR), Y1 - RR); return Math.hypot(px - qx, py - qy) <= RR; };
+      const fl = (px, py) => Math.max(0, Math.min(1, .62 + (.8 - (py - 46) * .006 - (px - 60) * .002 - .62) * .42 + (r() - .5) * .05));
+      const EYF = [[49.9, 73], [70.1, 73]];
+      const fk = (px, py) => { const d = Math.min(...EYF.map(e => Math.hypot((px - e[0]) * 1.4, py - e[1]))); return Math.max(0, Math.min(1, (d - 6) / 10)); };
+      const flowAng = (px, py) => { const a = Math.atan2(py - 34, (px - 60) * 1.3); return a; };
+      const UL = Math.max(L0, .65);
+      const fill = (m, fn) => { const gs = Math.ceil(Math.sqrt(m)); for (let i = 0; i < m; i++) { const px = X0 + ((i % gs) + r()) / gs * (X1 - X0), py = Y0 + (Math.floor(i / gs) + r()) / Math.ceil(m / gs) * (Y1 - Y0); if (inside(px, py)) fn(px, py); } };
+      fill(Math.round(1100 * UL), (px, py) => clump(px, py, flowAng(px, py) + (r() - .5) * .4, 3.5 + r() * 2.8, .7, fl(px, py) - .04, 4, 3));
+      fill(Math.round(1150 * L0), (px, py) => {
+        const k = fk(px, py); let ang = flowAng(px, py) + (r() - .5) * .3;
+        if (k < 1) { const e = EYF[px < 60 ? 0 : 1], oa = Math.atan2(py - e[1], px - e[0]); ang = ang * k + oa * (1 - k); }
+        clump(px, py, ang, (7.5 + r() * 4.5) * (.45 + .55 * k), .6 + r() * .5, fl(px, py) + (1 - k) * .05, grp(), 5);
+      });
+      // 外缘：沿轮廓一圈向外蓬的长毛
+      for (let i = 0, m = Math.round(520 * Math.max(L0, .6)); i < m; i++) {
+        const th = r() * Math.PI * 2, dx = Math.cos(th), dy = Math.sin(th); let t = 0; while (inside(CX + dx * (t + .5), CY + dy * (t + .5)) &amp;&amp; t < 60) t += .5;
+        const off = -3 + r() * 9, px = CX + dx * (t + off), py = CY + dy * (t + off);
+        clump(px, py, Math.atan2(dy * 1.15 + .25, dx) + (r() - .5) * .6, 5 + r() * 5.5, .5 + r() * .3, fl(px, py) - .03, off < 2 ? 4 : grp(), off < 2 ? 3 : 4);
+      }
+    }
     // 输出：每组一层 <g>，各自按不同节奏轻摆；同组内按 根 → 中 → 尖 的顺序叠
     let out = '';
     for (const B of buf.slice(0, 2)) for (let sg = 0; sg < SEG; sg++) for (let g = 0; g <= G; g++) {
@@ -3022,6 +3105,7 @@ a{color:var(--openbitfun-color-link-default)}
 
   function body(x) {
     const { P, u, plush } = x, sw = plush ? 20 : 18;
+    if (x.front) return `<rect x=&quot;26&quot; y=&quot;46&quot; width=&quot;68&quot; height=&quot;54&quot; rx=&quot;20&quot; fill=&quot;${P.side}&quot;/>${down(x)}`;
     if (x.flat) {
       const e = edgeOf(P.side);
       let f = `<rect x=&quot;26&quot; y=&quot;46&quot; width=&quot;68&quot; height=&quot;54&quot; rx=&quot;20&quot; fill=&quot;${P.side}&quot;${e ? ` stroke=&quot;${e}&quot; stroke-width=&quot;${x.tiny ? 2.4 : 1.4}&quot;` : ''}/>`;
@@ -3109,9 +3193,9 @@ ${plush ? '' : `<path d=&quot;${LEFT}&quot; fill=&quot;url(#lf${u})&quot; filter
     if (fx.includes('orbit')) over += `<g><circle cx=&quot;60&quot; cy=&quot;29&quot; r=&quot;17&quot; fill=&quot;none&quot; stroke=&quot;${color}&quot; stroke-opacity=&quot;.28&quot; stroke-width=&quot;1&quot; stroke-dasharray=&quot;1.5 3&quot;/><circle cx=&quot;77&quot; cy=&quot;29&quot; r=&quot;2.6&quot; fill=&quot;${color}&quot;><animateTransform attributeName=&quot;transform&quot; type=&quot;rotate&quot; from=&quot;0 60 29&quot; to=&quot;360 60 29&quot; dur=&quot;1.8s&quot; repeatCount=&quot;indefinite&quot;/></circle></g>`;
     if (fx.includes('smoke')) over += `<circle class=&quot;puff&quot; cx=&quot;67&quot; cy=&quot;14&quot; r=&quot;3.2&quot; fill=&quot;#B9BEC7&quot;/><circle class=&quot;puff p2&quot; cx=&quot;71&quot; cy=&quot;12&quot; r=&quot;2.4&quot; fill=&quot;#B9BEC7&quot;/>`;
     const be = edgeOf(color), bs = be ? ` stroke=&quot;${be}&quot; stroke-width=&quot;${x.tiny ? 2 : 1.1}&quot;` : '';
-    const ball = x.tiny ? `<circle cx=&quot;60&quot; cy=&quot;27&quot; r=&quot;12.5&quot; fill=&quot;${color}&quot;${bs}/>` : x.flat ? `<circle cx=&quot;60&quot; cy=&quot;28&quot; r=&quot;9.6&quot; fill=&quot;${color}&quot;${bs}/>` : `<circle cx=&quot;60&quot; cy=&quot;29&quot; r=&quot;11.5&quot; fill=&quot;${color}&quot;${bs}/>${plush ? `<circle cx=&quot;60&quot; cy=&quot;29&quot; r=&quot;11.5&quot; fill=&quot;url(#bm${u})&quot;/>` : `<circle cx=&quot;60&quot; cy=&quot;29&quot; r=&quot;11.5&quot; fill=&quot;url(#bs${u})&quot;/>`}${plush ? '' : `<ellipse cx=&quot;55.6&quot; cy=&quot;23.8&quot; rx=&quot;4&quot; ry=&quot;2.6&quot; transform=&quot;rotate(-30 55.6 23.8)&quot; fill=&quot;#fff&quot; opacity=&quot;.6&quot; filter=&quot;url(#hb${u})&quot;/><circle cx=&quot;60&quot; cy=&quot;29&quot; r=&quot;11.1&quot; fill=&quot;none&quot; stroke=&quot;#000&quot; stroke-opacity=&quot;.1&quot; stroke-width=&quot;.8&quot;/>`}`;
+    const ball = x.tiny ? `<circle cx=&quot;60&quot; cy=&quot;27&quot; r=&quot;12.5&quot; fill=&quot;${color}&quot;${bs}/>` : x.flat ? `<circle cx=&quot;60&quot; cy=&quot;28&quot; r=&quot;9.6&quot; fill=&quot;${color}&quot;${bs}/>${x.front ? `<circle cx=&quot;60&quot; cy=&quot;28&quot; r=&quot;9.6&quot; fill=&quot;url(#bm${u})&quot;/>` : ''}` : `<circle cx=&quot;60&quot; cy=&quot;29&quot; r=&quot;11.5&quot; fill=&quot;${color}&quot;${bs}/>${plush ? `<circle cx=&quot;60&quot; cy=&quot;29&quot; r=&quot;11.5&quot; fill=&quot;url(#bm${u})&quot;/>` : `<circle cx=&quot;60&quot; cy=&quot;29&quot; r=&quot;11.5&quot; fill=&quot;url(#bs${u})&quot;/>`}${plush ? '' : `<ellipse cx=&quot;55.6&quot; cy=&quot;23.8&quot; rx=&quot;4&quot; ry=&quot;2.6&quot; transform=&quot;rotate(-30 55.6 23.8)&quot; fill=&quot;#fff&quot; opacity=&quot;.6&quot; filter=&quot;url(#hb${u})&quot;/><circle cx=&quot;60&quot; cy=&quot;29&quot; r=&quot;11.1&quot; fill=&quot;none&quot; stroke=&quot;#000&quot; stroke-opacity=&quot;.1&quot; stroke-width=&quot;.8&quot;/>`}`;
     return `<g class=&quot;${cls}&quot;>
-      ${x.flat ? `<rect x=&quot;58.3&quot; y=&quot;36&quot; width=&quot;3.4&quot; height=&quot;10.2&quot; fill=&quot;${edgeOf(P.side) || P.side}&quot;/>`
+      ${x.front ? `<ellipse cx=&quot;60&quot; cy=&quot;49&quot; rx=&quot;4.4&quot; ry=&quot;1.8&quot; fill=&quot;#000&quot; opacity=&quot;.2&quot; filter=&quot;url(#hb${u})&quot;/><rect x=&quot;58.2&quot; y=&quot;35&quot; width=&quot;3.6&quot; height=&quot;14.5&quot; rx=&quot;1.8&quot; fill=&quot;url(#cr${u})&quot;/>` : x.flat ? `<rect x=&quot;58.3&quot; y=&quot;36&quot; width=&quot;3.4&quot; height=&quot;10.2&quot; fill=&quot;${edgeOf(P.side) || P.side}&quot;/>`
         : `${plush ? `<ellipse cx=&quot;60&quot; cy=&quot;54.4&quot; rx=&quot;5.2&quot; ry=&quot;2.4&quot; fill=&quot;#000&quot; opacity=&quot;.22&quot; filter=&quot;url(#hb${u})&quot;/><rect x=&quot;57.4&quot; y=&quot;30&quot; width=&quot;5.2&quot; height=&quot;24&quot; rx=&quot;2.6&quot; fill=&quot;url(#cr${u})&quot;/>` : `<rect x=&quot;57.4&quot; y=&quot;30&quot; width=&quot;5.2&quot; height=&quot;23.5&quot; rx=&quot;2.6&quot; fill=&quot;url(#cr${u})&quot;/><ellipse cx=&quot;60&quot; cy=&quot;53.8&quot; rx=&quot;7&quot; ry=&quot;3.6&quot; fill=&quot;url(#cc${u})&quot;/><ellipse cx=&quot;60&quot; cy=&quot;53.1&quot; rx=&quot;4&quot; ry=&quot;1.7&quot; fill=&quot;#fff&quot; opacity=&quot;.55&quot;/>`}`}
       <g transform=&quot;${x.flat ? '' : 'translate(0 -10) translate(60 29) scale(1.14) translate(-60 -29)'}&quot;>
       ${under}
@@ -3304,13 +3388,14 @@ ${plush ? '' : `<path d=&quot;${LEFT}&quot; fill=&quot;url(#lf${u})&quot; filter
     const P = typeof opt.palette === 'object' ? opt.palette : PALETTES[opt.palette || 'obsidian'];
     const x = { P, u: 'b' + (++UID), plush: opt.finish === 'plush', metal: opt.finish === 'metal', cute: opt.face === 'cute', lod: opt.lod || 1, flat: opt.view === 'flat' || !!opt.tiny, tiny: !!opt.tiny, mouthPick: opt.mouth, blushPick: opt.blush === 'none' ? null : opt.blush };
     if (opt.blush === 'none') x.blushPick = '';
-    if (x.flat) { x.plush = false; x.metal = false; } // 平面只有一种：纯平、简化
+    x.front = opt.view === 'front' &amp;&amp; x.plush; if (opt.view === 'front') x.flat = true; // 正面毛绒：平面的正面构图 + 毛绒
+    if (x.flat &amp;&amp; !x.front) { x.plush = false; x.metal = false; } // 平面只有一种：纯平、简化
     const color = statusColor(st.cat, opt.palette);
     const compact = !!opt.compact || !!opt.tiny, ac = !!opt.accent &amp;&amp; !x.tiny;
     const list = parts(id, x, color, compact || ac).filter(Boolean).join('') + (x.plush &amp;&amp; x.furOver ? x.furOver : (x.tiny ? '' : bifangBlush(x))) + (x.mouthPick === 'beak' ? beakOf(x) : x.mouthPick &amp;&amp; x.mouthPick !== 'state' &amp;&amp; x.mouthPick !== 'none' &amp;&amp; !x.tiny ? mouth(x, x.mouthPick, true) : '');
     const wrap = st.wrap === 'hop' &amp;&amp; (compact || ac) ? 'f' : st.wrap;
     const vb = x.tiny ? '20 13 80 90' : ac ? '34 6 122 120' : compact ? '9 1 102 107' : '0 0 160 136';
-    const shadow = x.flat ? '' : false ? `<ellipse cx=&quot;60&quot; cy=&quot;104&quot; rx=&quot;27&quot; ry=&quot;2.6&quot; fill=&quot;#000&quot; opacity=&quot;.07&quot;/>` : `<ellipse cx=&quot;60&quot; cy=&quot;103.5&quot; rx=&quot;30&quot; ry=&quot;4.2&quot; fill=&quot;url(#sh${x.u})&quot;/>`;
+    const shadow = x.flat &amp;&amp; !x.front ? '' : false ? `<ellipse cx=&quot;60&quot; cy=&quot;104&quot; rx=&quot;27&quot; ry=&quot;2.6&quot; fill=&quot;#000&quot; opacity=&quot;.07&quot;/>` : `<ellipse cx=&quot;60&quot; cy=&quot;103.5&quot; rx=&quot;30&quot; ry=&quot;4.2&quot; fill=&quot;url(#sh${x.u})&quot;/>`;
     const inner = compact &amp;&amp; !ac ? `${shadow}<g class=&quot;${wrap}&quot;>${list}</g>` : `<g transform=&quot;translate(20 12)&quot;>${shadow}<g class=&quot;${wrap}&quot;>${list}</g>${ac ? accent(id, color) : ''}</g>`;
     const style = opt.noStyle ? '' : `<style>${STYLE}</style>`;
     return `<svg class=&quot;bf&quot; xmlns=&quot;http://www.w3.org/2000/svg&quot; viewBox=&quot;${vb}&quot; role=&quot;img&quot; aria-label=&quot;毕方 · ${st.name}&quot;>${style}${defs(x)}${inner}</svg>`;

diff --git a/site/catalog.js b/site/catalog.js
@@ -595,18 +595,18 @@ window.DEVECO_CATALOG = {
     /* ================= 支撑 ================= */
     {
       id: 'bitfun', section: 'bifang', title: '毕方形象', icon: 'i-cat-bitfun',
-      note: 'OpenBitFun 吉祥物“毕方”：方块形象、14 个工作状态与配色体系，颜色取自 OpenBitFun 设计系统 token。',
+      note: 'OpenBitFun 吉祥物“毕方”：方块形象、14 个工作状态、统一色板与毛绒版。',
       items: [{
         title: '毕方形象 · 多状态设计与配色', subtitle: 'BitFun Mascot · States & Color System',
-        desc: '等距方块形象，天线球颜色表示 Agent 当前在做什么。三个章节：自己搭配（选身体与天线球颜色，实时预览 3D / 平面 / 6 个状态，自动检查可读性，可导出 SVG）；配色方案（主推方案与 2026 趋势备选）；形象与状态（14 个状态的舞台卡片，浅色 / 深色可切）。单文件，双击即开。',
-        view: 'ready', date: '2026-11-26', href: 'design/bitfun-mascot/index.html',
+        desc: '天线球表示 Agent 状态，眼睛表示情绪。自己搭配（颜色、嘴型、腮红）、《山海经》典故与毛绒动态版、14 个状态、统一色板。单文件，双击即开。',
+        view: 'ready', date: '2026-11-28', href: 'design/bitfun-mascot/index.html',
         links: [
           { label: '自己搭配', href: 'design/bitfun-mascot/index.html#customize' },
-          { label: '配色方案', href: 'design/bitfun-mascot/index.html#palettes' },
           { label: '形象与状态', href: 'design/bitfun-mascot/index.html#states' },
+          { label: '配色方案', href: 'design/bitfun-mascot/index.html#palettes' },
           { label: '源码（OpenBitFun）', href: 'https://github.com/Cinnnnnnndy/OpenBitFun/tree/feat/bitfun-mascot/BitFun/mascot-states' },
         ],
-        tags: ['吉祥物', '14 状态', '配色', '3D / 平面', 'OpenBitFun'],
+        tags: ['吉祥物', '14 状态', '毛绒', '统一色板', 'OpenBitFun'],
         thumb: { type: 'image', src: 'site/thumbs/bitfun-mascot.jpg' },
       }],
     },
